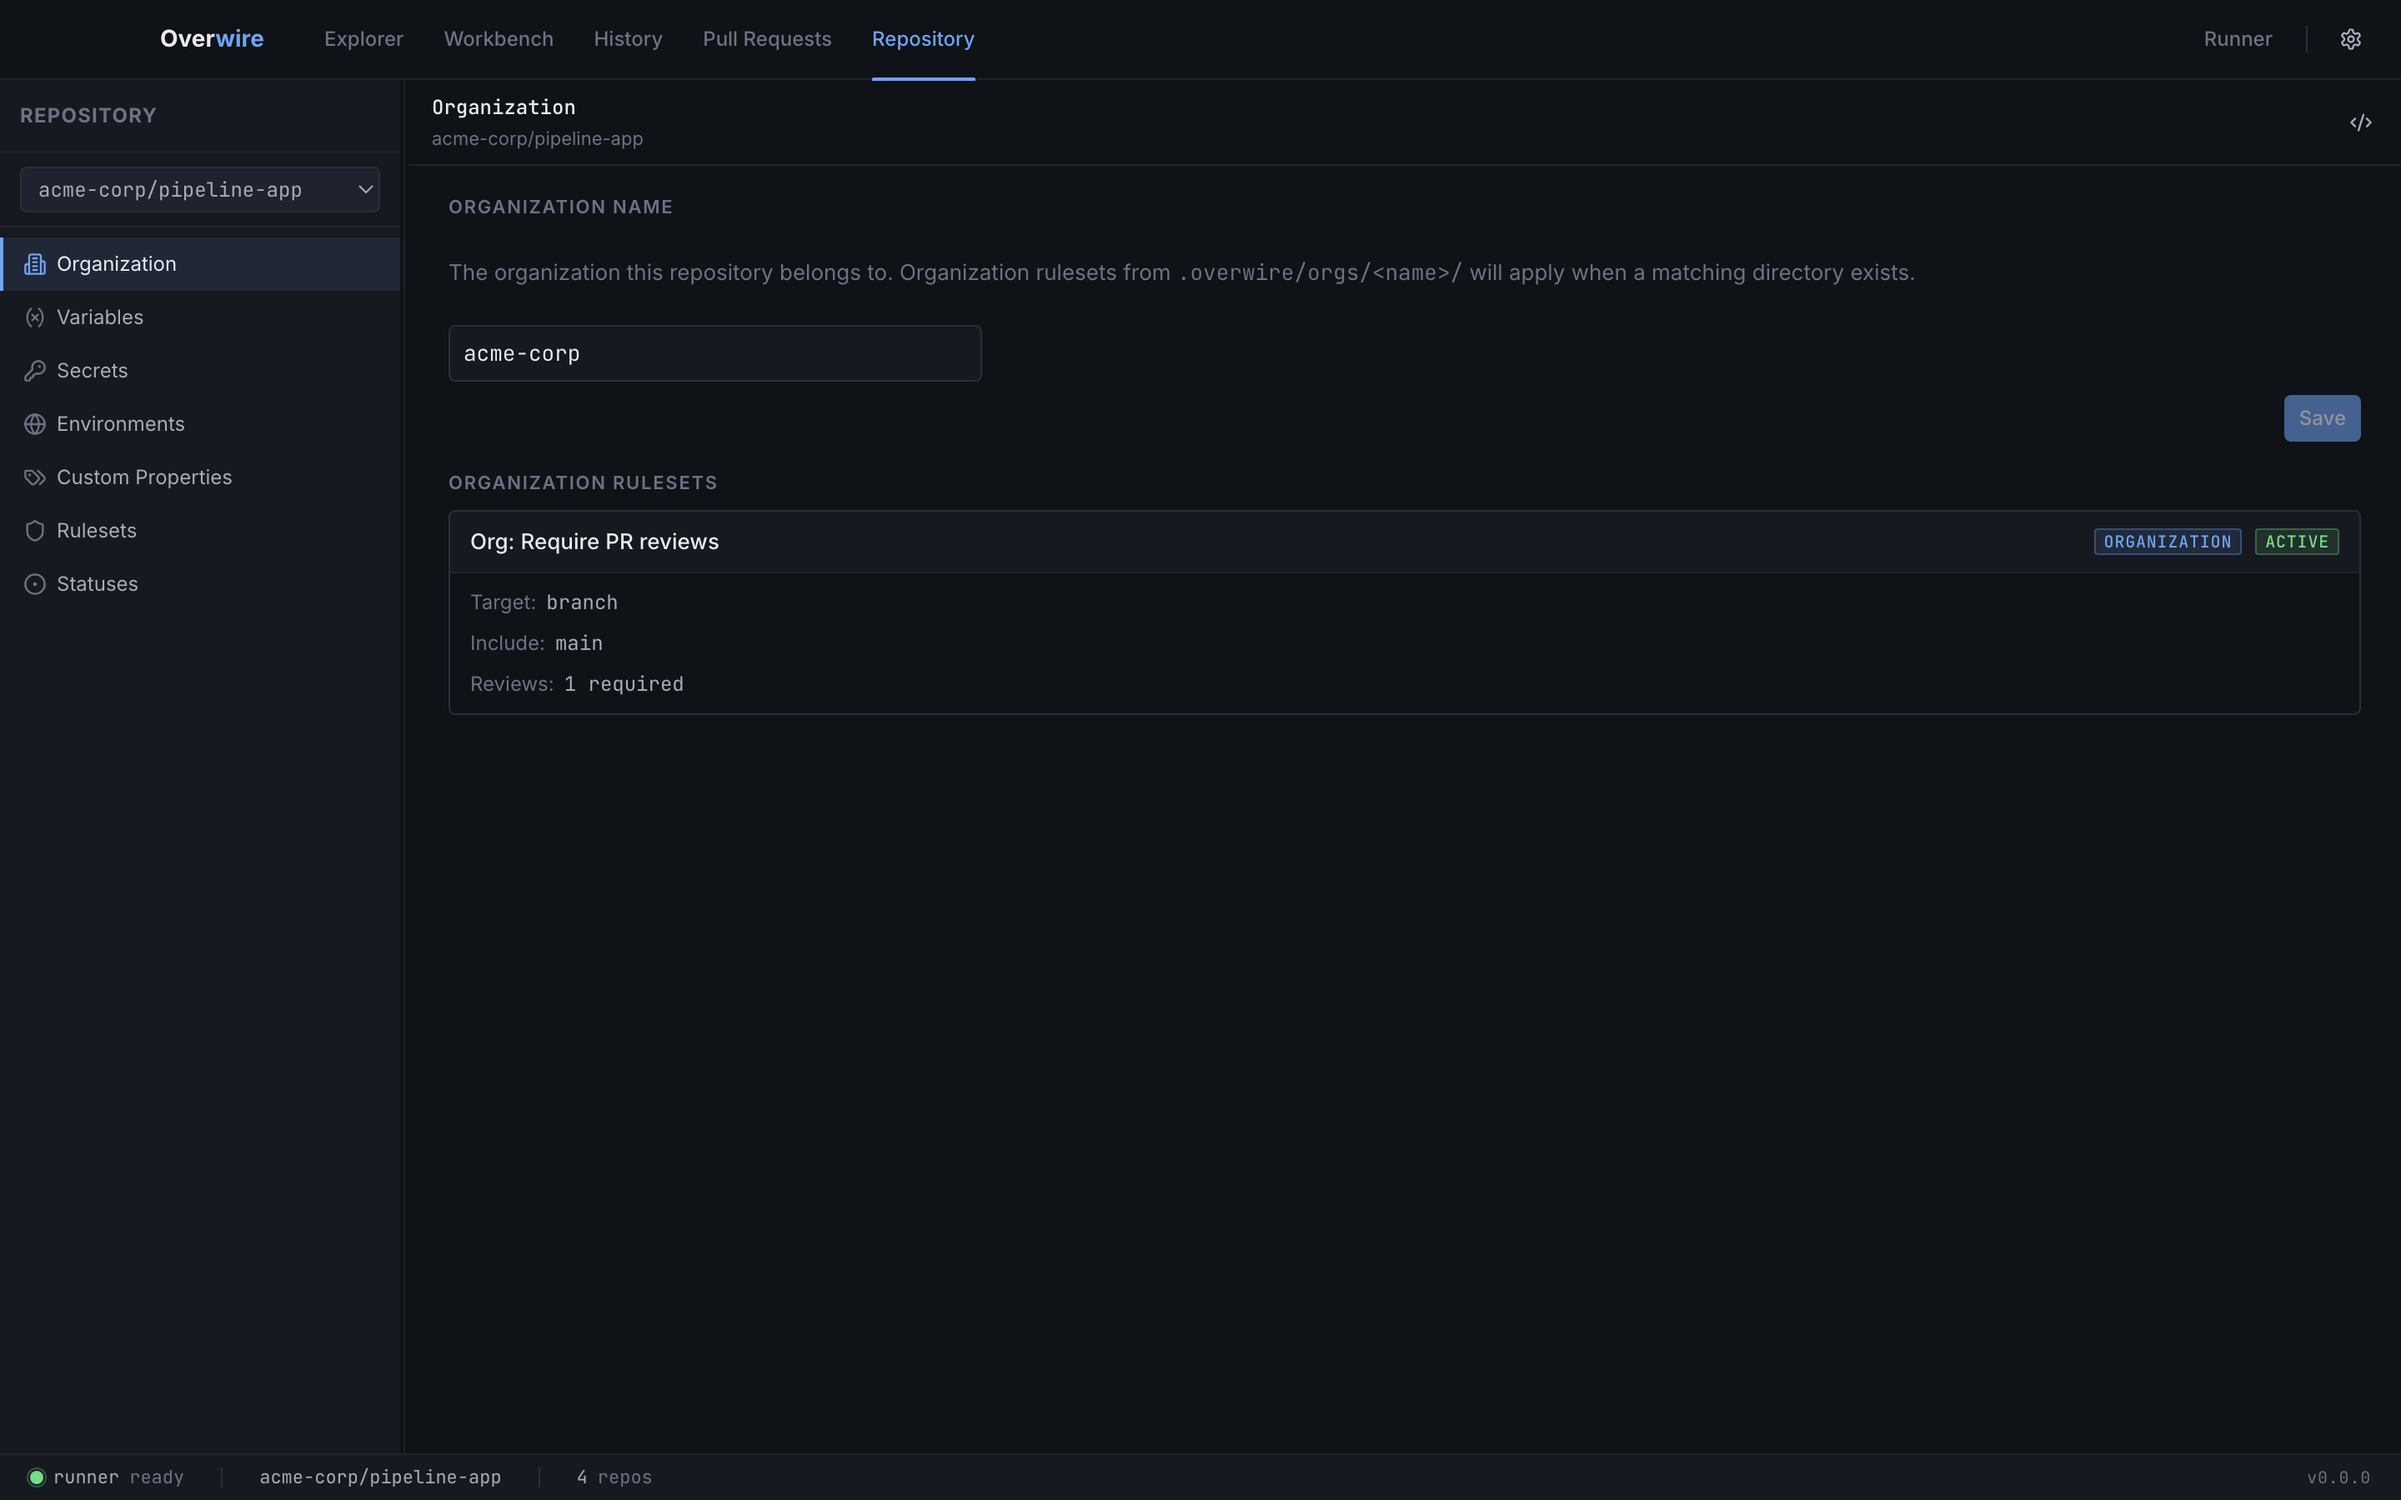
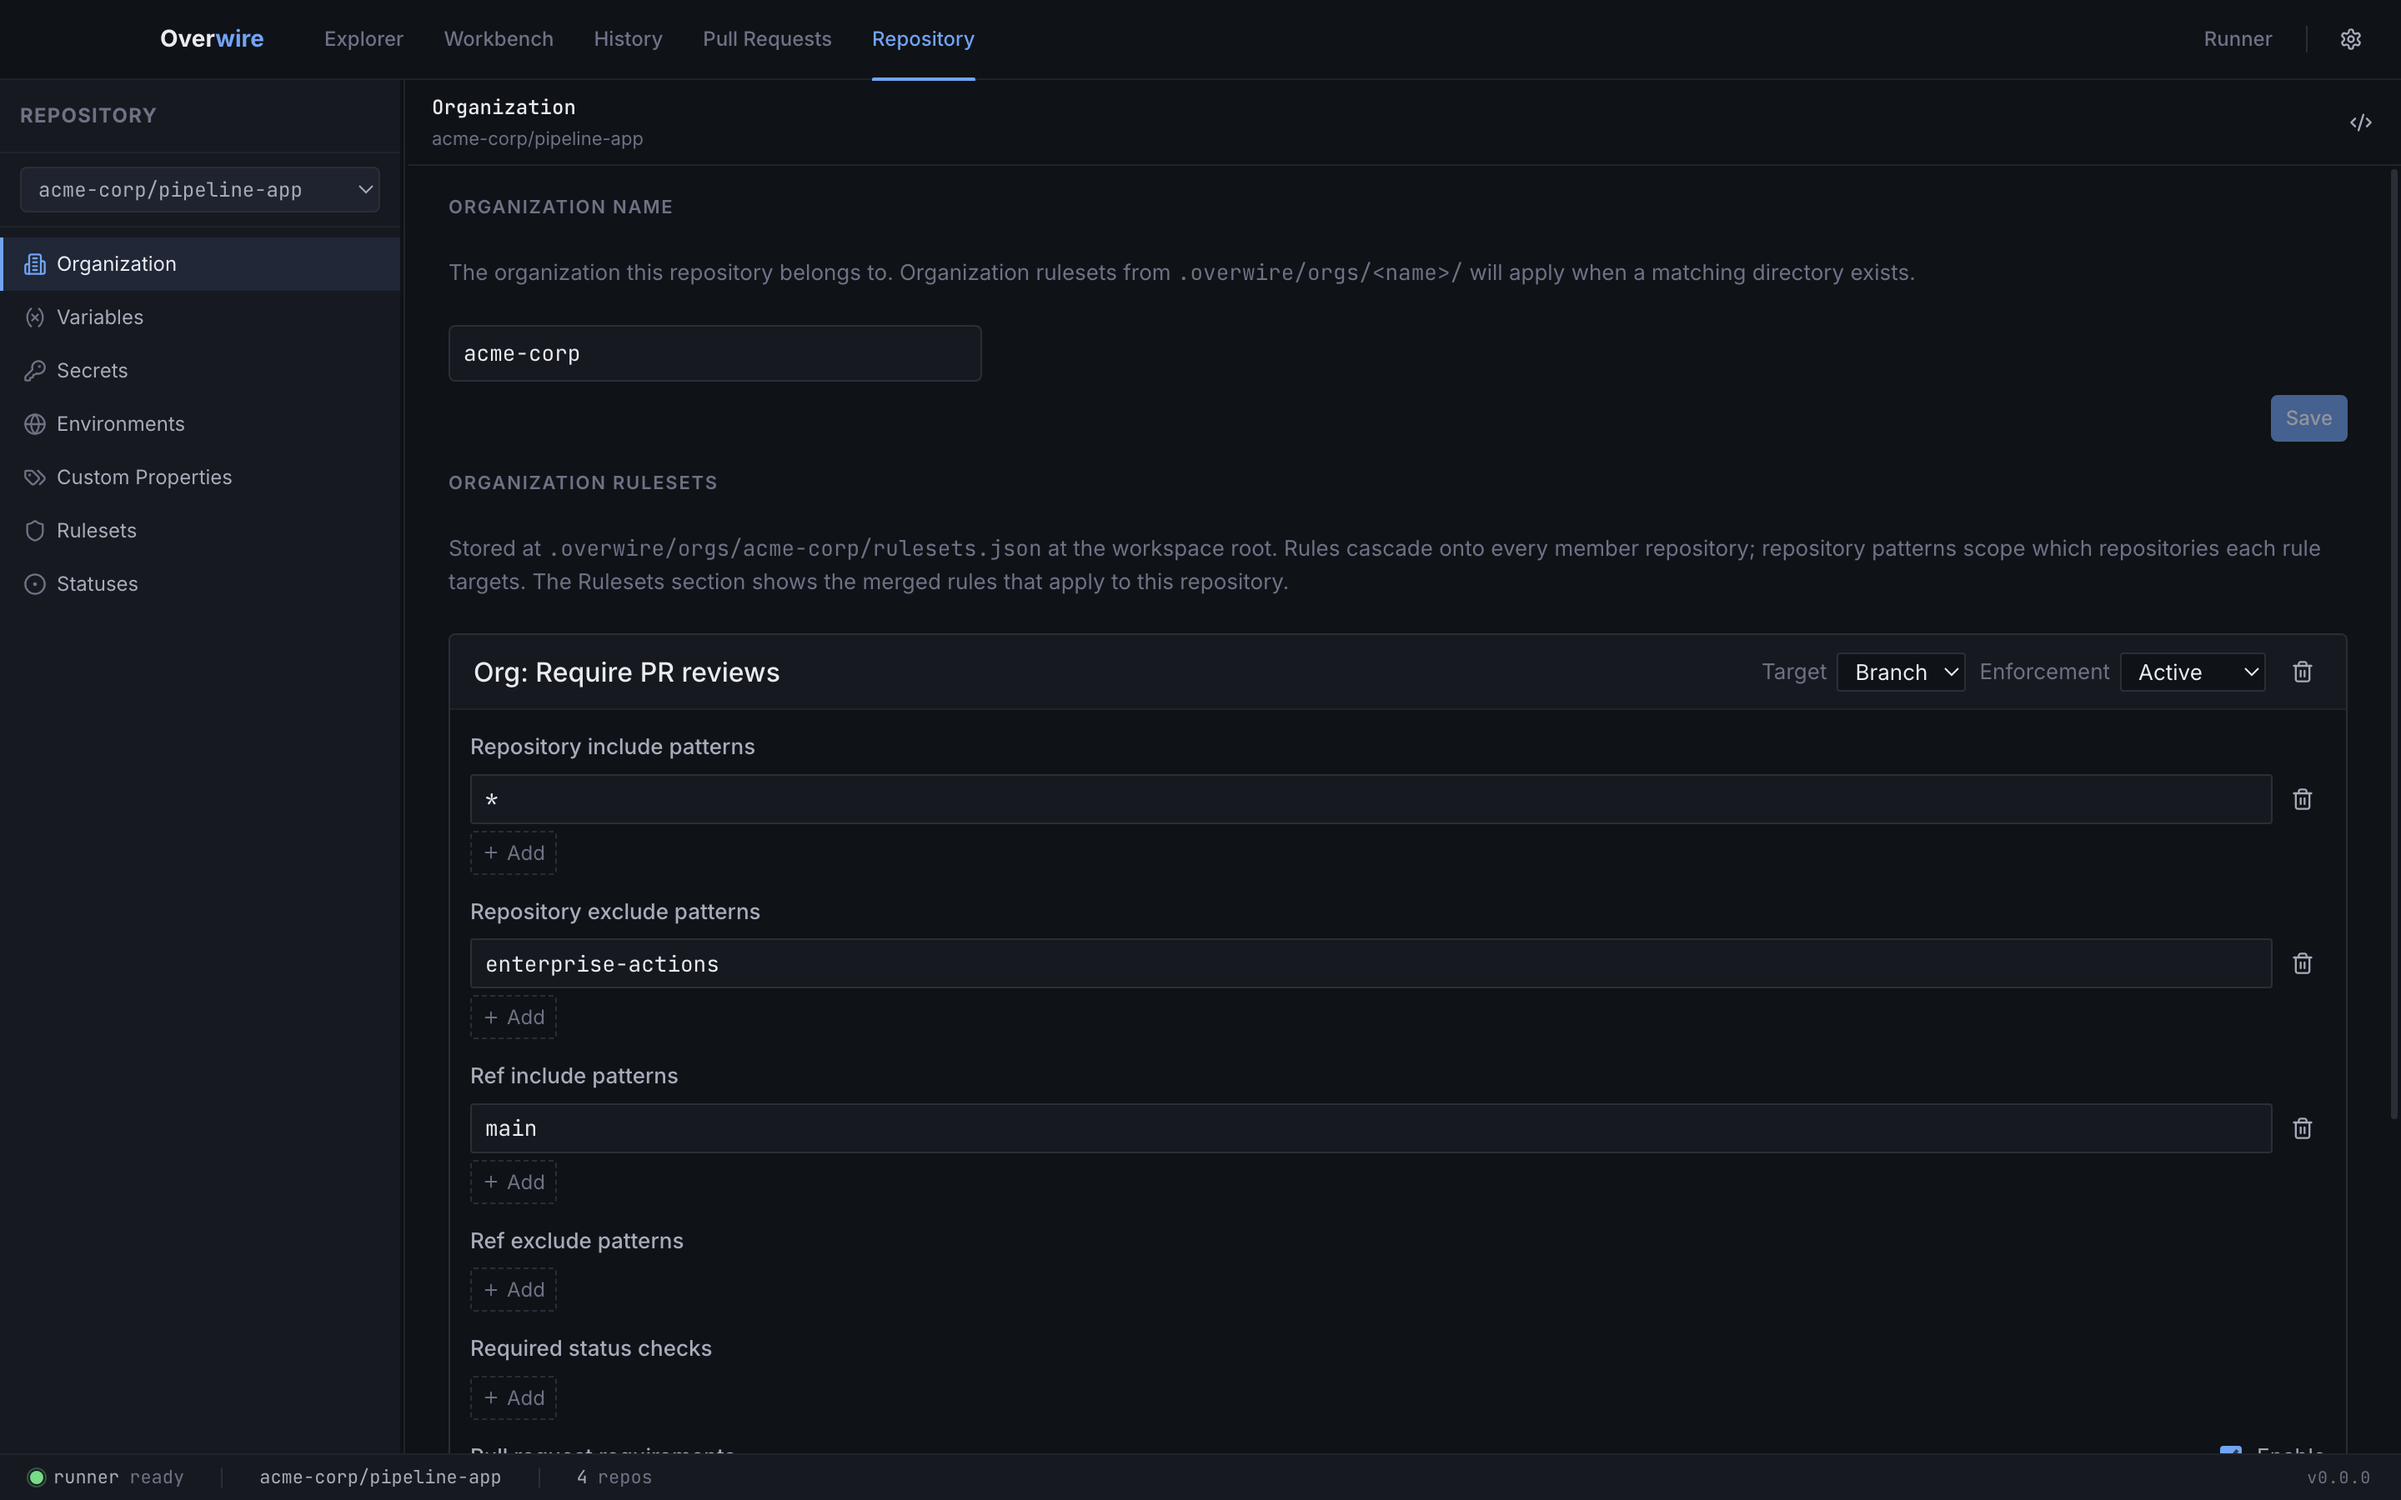
docs: organization rulesets are edited in place on the Repository page
The Organization section now authors orgs/<owner>/rulesets.json directly
(repository targeting, evaluate enforcement, unmodeled rule types
preserved); the Rulesets section stays the read-only merged view. Refresh
the organization screenshot accordingly.

diff --git a/src/content/docs/app/repository.md b/src/content/docs/app/repository.md
@@ -11,9 +11,11 @@ In a multi-repo workspace, the switcher at the top of the sidebar picks which re
 
 ## Organization
 
-Sets the repository's owner, which together with the project folder name forms its `owner/repo` identity. Renaming the owner updates `instances.yml` and propagates across the app. When a matching `.overwire/orgs/<owner>/` directory exists at the workspace config root, its organization rulesets are listed read-only here — they cascade onto this repository and merge with repository rulesets during [merge prediction](/app/pull-requests/).
+Sets the repository's owner, which together with the project folder name forms its `owner/repo` identity. Renaming the owner updates `instances.yml` and propagates across the app.
 
-![The organization section with the owner field and an inherited organization ruleset](../../../assets/app/repository--organization.png)
+Below the owner field, the organization's rulesets are edited in place. They live at `.overwire/orgs/<owner>/rulesets.json` under the workspace config root in the platform's native export format, and cascade onto every member repository during [merge prediction](/app/pull-requests/). Each rule carries repository patterns (which repositories it targets), ref patterns, required status checks, and pull request requirements; rule types Overwire does not model are preserved untouched on save. Saving creates the `orgs/<owner>/` directory if it does not exist yet.
+
+![The organization section with the owner field and an editable organization ruleset](../../../assets/app/repository--organization.png)
 
 ## Variables
 
@@ -41,7 +43,7 @@ Edits [`custom-properties.yml`](/configuration/custom-properties/) — organizat
 
 ## Rulesets
 
-Edits [`rulesets.json`](/configuration/governance/) in the platform's native export format. Organization rules appear above repository rules with a source badge; org rules are read-only here and edited through their files under `orgs/<owner>/`.
+Edits [`rulesets.json`](/configuration/governance/) in the platform's native export format. Organization rules appear above repository rules with a source badge; they are read-only in this merged view and edited in the [Organization section](#organization).
 
 ## Statuses
 

diff --git a/src/content/docs/configuration/governance.md b/src/content/docs/configuration/governance.md
@@ -26,7 +26,7 @@ A [workspace](/concepts/workspaces/) can simulate the rules an organization admi
 <workspace>/.overwire/orgs/<org>/github/rulesets/*.json
 ```
 
-The files use the same native export format. Rules from `orgs/<org>/` cascade onto every workspace repository owned by that organization and evaluate alongside the repository's own rulesets, mirroring how organization rules apply on the platform without repository admins being able to override them. Ruleset `conditions` (such as `repository_name`) narrow which repositories a rule targets.
+The files use the same native export format. Rules from `orgs/<org>/` cascade onto every workspace repository owned by that organization and evaluate alongside the repository's own rulesets, mirroring how organization rules apply on the platform without repository admins being able to override them. Ruleset `conditions` (such as `repository_name`) narrow which repositories a rule targets. The desktop app's [Repository → Organization section](/app/repository/) edits `orgs/<org>/rulesets.json` in place, preserving rule types it does not model.
 
 The [demo workspace](/getting-started/demo/) ships a working example: two fictional organizations with org-level signed-commit and review requirements layered over per-repository rules.
 
